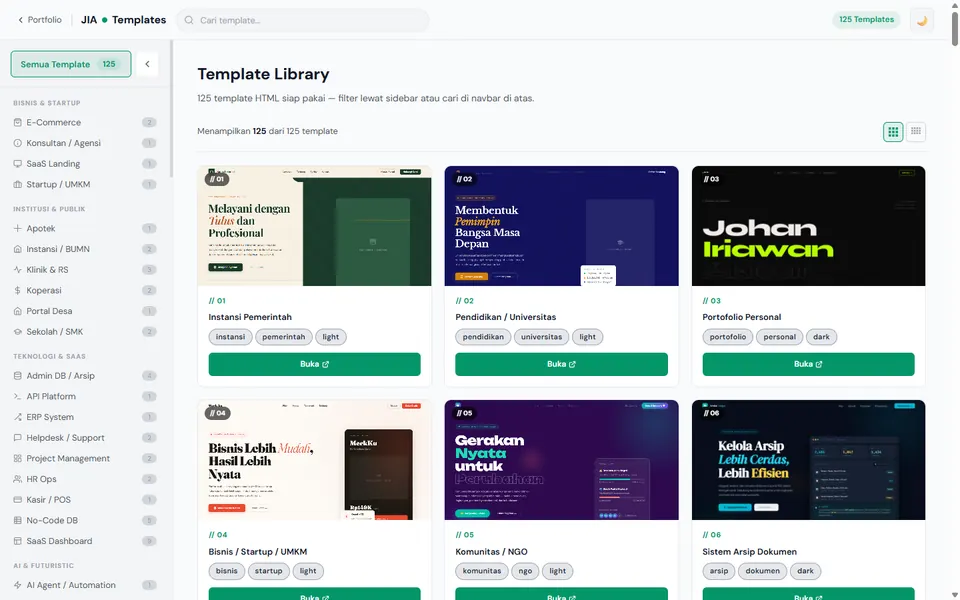
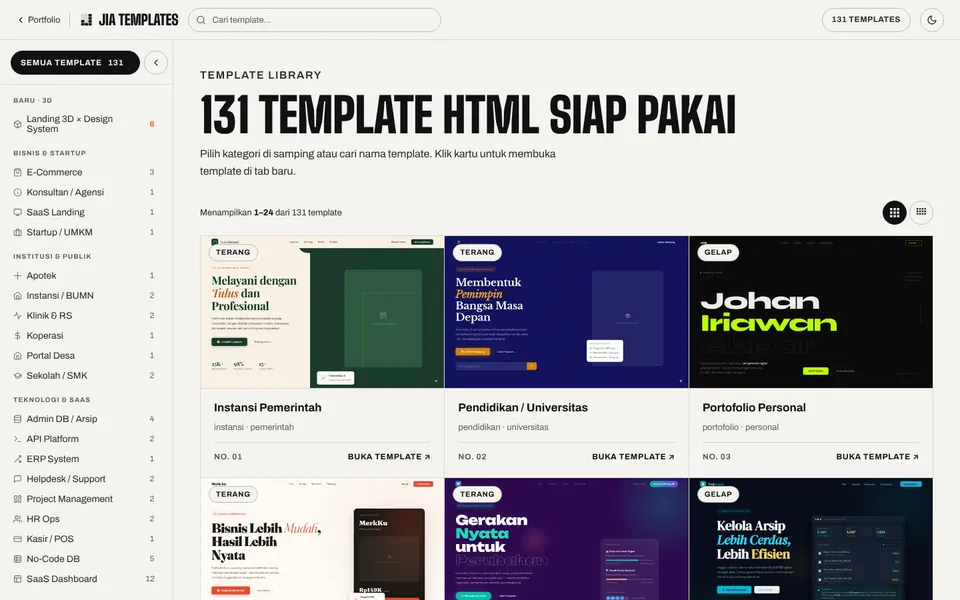
Finish 3D gallery: thumbnails for 126-131, refreshed Template Library image, work log and CDN source notes
Claude-Session: https://claude.ai/code/session_01EVHqnu5HDsnJgCMFLefxRH

diff --git a/gallery.html b/gallery.html
@@ -951,7 +951,7 @@ const templates = [
   {n:124, slug:"124-bridalku", title:"Wedding Vendor Marketplace — Sanding", cats:["weddingmarketplace"], path:"templates/124-bridalku/template-bridalku.html", tags:["wedding","vendor marketplace","pernikahan","light"]},
   {n:125, slug:"125-jelajah", title:"Hotel & Tiket Pesawat — Jelajah", cats:["travelaggregator"], path:"templates/125-jelajah/template-jelajah.html", tags:["travel","hotel","tiket pesawat","light"]},
   {n:126, slug:"126-orbita", title:"Smart Home 3D — Orbita · Material 3", cats:["3d","iot"], path:"templates/126-orbita/template-orbita.html", tags:["3d","three.js","material 3","smart home","light"]},
-  {n:127, slug:"127-sonara", title:"Produk Audio 3D — Sonara · Bootstrap 5", cats:["3d","ecommerce"], path:"templates/127-sonara/template-sonara.html", tags:["3d","three.js","bootstrap","produk","dark"]},
+  {n:127, slug:"127-sonara", title:"Produk Audio 3D — Sonara · Bootstrap 5", cats:["3d","ecommerce"], path:"templates/127-sonara/template-sonara.html", tags:["3d","three.js","bootstrap","produk","light"]},
   {n:128, slug:"128-lintas", title:"Logistik Globe 3D — Lintas · IBM Carbon", cats:["3d","logistik"], path:"templates/128-lintas/template-lintas.html", tags:["3d","three.js","carbon","logistik","dark"]},
   {n:129, slug:"129-nalar", title:"AI SaaS 3D — Nalar · Tailwind + shadcn", cats:["3d","aitech"], path:"templates/129-nalar/template-nalar.html", tags:["3d","three.js","tailwind","shadcn","ai","dark"]},
   {n:130, slug:"130-ruang", title:"Studio Arsitektur 3D — Ruang · Shoelace", cats:["3d","interiordesign"], path:"templates/130-ruang/template-ruang.html", tags:["3d","three.js","shoelace","arsitektur","light"]},

diff --git a/docs/jejak-permintaan.md b/docs/jejak-permintaan.md
@@ -27,3 +27,6 @@ Kolom baku (aturan `~/.claude/CLAUDE.md`): # · Tugas · Asal perintah · Halama
 | 21 | Antrean #19: sapuan tombol navbar seragam | "apalagi yaaa coba sweep tombol seragam tadi ada toggle dan sebelah nya yang tidak seragam perbaiki dan push" (9 Okt 2026) | landing + galeri | `index.html` `.btn-lang/.btn-theme/.btn-cta-nav/.nav-hamburger`, `#themeBtn` + `setThemeIcon()`; `gallery.html` blok RUPA JIA (`.nav-count`, `.nav-search input`, `.theme-toggle/.hamburger/.sidebar-collapse`, `.sidebar-all-btn`) | tinggi 34/38 (landing), 26/32/36 (galeri), 38/36 (sidebar); tema landing berteks DARK | ditemukan 10 · diubah 10 · sengaja tidak 4 (hero primary/secondary 52, submit 45, grid-btn sudah 36) | satu tinggi per bilah (§WEB-232) | selesai — Playwright laptop + HP: semua kendali navbar 36 px, ukur-bilah (termasuk nav) gagal 0 di kedua halaman, luber 0, tema berganti + aria-label benar; pemeriksa sonnet: 5 klaim benar | 2026-10-09 |
 | 22 | Antrean #23: pilot landing semua 50 komponen Polaris | "kerjakan #23 (pilot landing semua komponen Polaris)" (26 Okt 2026) | halaman baru | `design-systems/polaris/index.html` (baru); `docs/referensi_portoweb.md` bagian Polaris; `docs/bukti-23/` | tidak ada | landing "Warung Rapi" (merek rekaan) memakai `polaris-2.0.js` tanpa App Bridge; tabel cakupan dihitung skrip dari DOM | pilot design system pihak lain, kerangka untuk #22 | dikerjakan, belum dipush — chrome-devtools laptop 1536x960x1.25 dan telepon 412x915x2.625: cakupan `{"terpakai":50,"n":50,"tampilAwal":37}`, konsol kosong, `scrollWidth` 412 di telepon. Pemeriksa sonnet: 1 sanggahan diterima (panah karusel hanya geser 16px, diperbaiki → 332px), 1 sanggahan diterima sebagai kolom "Tampil awal" (13 komponen baru muncul saat dipicu atau tersembunyi di telepon) | 2026-10-26 |
 | 23 | Antrean #25: buang `design-systems/` dari cabang | "kerjakan #25 (buang design-systems/ dari cabang) lalu pindah ke cloud" (28 Okt 2026) | — (riwayat git) | cabang `claude/baca-hemat-ffa433` | 12 commit lokal, 014444c memuat `design-systems/polaris/index.html` (lisensi Polaris "tidak tahu") | riwayat ditulis ulang tanpa folder itu; isi docs tetap | landing design system tinggal di AI Skill (lokal), cabang akan diunggah ke GitHub saat pindah ke cloud | selesai — `git log --all --oneline -- design-systems` = kosong; `git branch -a --contains 014444c` = kosong; `refs/original` dihapus | 2026-10-28 |
+| 24 | Antrean #28: re-imagine landing portofolio | "re-imagine landing portofolio kita, jadikan yang paling bagus … kmu pilih sesuai rekomendasimu kemudian kerjakan dan push" + "sebagai referensi bangun website 3D" (27 Okt 2026); "lanjutkan yang tadi sampai selesai lalu push" (28 Okt 2026) | landing | `index.html` (ditulis ulang) | hero teks + kode tiruan, kartu layanan, grid proyek 3×2, form yang hanya menulis "Terkirim!" | "studio isometrik": kertas `#f4f3ef`, tinta, aksen oranye `#ff5b1f`; hero three.js 0.170 (logo J dari balok, ikut kursor); Proses = cerita gulir 3D (tokoh berjalan antar 4 meja, garis oranye); Karya grid 7/5; Layanan 5 baris; Lab (Template Library + Galeri 3D); Tentang + tumpukan teknologi; form → pesan WhatsApp; 131 template, 6 landing 3D | rekomendasi sendiri atas permintaan Johan; gaya garis oranye isometrik dari replika 3D SAKTI kiriman Johan | selesai — Playwright 1440×900 dan 390×844, terang dan gelap: luber 0, galat konsol 0; tanpa WebGL tampil logo SVG | 2026-10-28 |
+| 25 | Antrean #29 (+ menutup #20): galeri cepat & rapi | "perbaiki semua gallery yang sudah ada rapikan, termasuk font nya … supaya gallery tidak lemot … pagination dll" (27 Okt 2026) | galeri + 48 template | `gallery.html` (render, pagination, sidebar, token warna); `thumbnails/*.webp`; `tools/rapikan_fon.py`, `tools/rapikan_hp.py`, `tools/audit_template.js`, `tools/buat_thumbnail.py`; `sw.js` (`jia-v3`) | 118 PNG 1440×900 ±27 MB dimuat sekaligus, 7 template tanpa thumbnail; 48 template berfon mono (nol bertitik); 24 template luber di HP 390 px; hitungan kategori ditulis tangan | 131 WebP 640×400 (±1,6 MB); 24 kartu per halaman, status `?cat=&q=&page=`; hitungan dari data; Space Grotesk menggantikan fon mono; tambalan HP di 27 template (CTA navbar, tabel, grid); `viewBox` 01-instansi dibetulkan | galeri lemot karena gambar; aturan global §Fon Angka | selesai — buka galeri: 24 thumbnail ±11 KB (laptop), galat 0; audit semua template: mono 0, galat 0, konten terpotong di 390 px 0 (sisa hanya laci menu tersembunyi di luar layar, memang dirancang begitu) | 2026-10-28 |
+| 26 | Antrean #30: galeri landing 3D × design system | "berikan lagi gallery seperti threeD.js atau website 3D berjalan landing dengan design system yang sering di pakai, coba kerjakan dan push" (27 Okt 2026) | 6 template baru + kategori galeri `?cat=3d` | `templates/126-orbita` (Material 3), `127-sonara` (Bootstrap 5.3), `128-lintas` (IBM Carbon), `129-nalar` (Tailwind v4 + pola shadcn/ui), `130-ruang` (Shoelace), `131-rapatin` (Fluent UI web components) | tidak ada | tiap landing: adegan three.js yang dikendalikan komponen design system + cerita gulir isometrik; terang/gelap; reduced-motion; cadangan tanpa WebGL | hanya sistem berlisensi terbuka (Apache-2.0/MIT), CDN berversi kunci | selesai — 6/6 di 1440 dan 390: luber 0, mono 0, galat 0; kontrol mengubah adegan (beda piksel rata-rata: Orbita saklar 20,5, Sonara warna 23,5, Lintas baris tabel 32.228 piksel berubah, Nalar tab Hitung, Ruang `sl-range` 84,0, Rapatin `fluent-switch` 54,5) | 2026-10-28 |

diff --git a/docs/referensi_portoweb.md b/docs/referensi_portoweb.md
@@ -52,11 +52,31 @@ Tidak berlaku untuk proyek ini — tidak ada halaman yang membaca berkas data (`
 | `app-bridge.js` + meta `shopify-api-key` | ❌ | tidak dibutuhkan untuk menggambar di halaman lepas (uji 26 Okt 2026) | sesi ini, dengan bukti uji; bisa dibalik Johan |
 | Paket React lama `Shopify/polaris` (MIT, diarsipkan) | ❌ | cadangan, tidak dibutuhkan karena web components jalan | sesi ini |
 
+## Pustaka CDN landing & galeri 3D — antrean #28 dan #30 (27–28 Okt 2026)
+
+Semua dimuat live dari CDN dengan versi dikunci; tidak ada kode pustaka yang disalin ke repo. Dicek `curl` = 200 saat dibangun.
+
+| Pustaka | Versi | Lisensi | URL | Dipakai di |
+|---|---|---|---|---|
+| three.js (+ addons `examples/jsm`) | 0.170.0 | MIT | `https://cdn.jsdelivr.net/npm/three@0.170.0/` | `index.html`, template 126–131 |
+| Material Web (`@material/web`) | 2.2.0 | Apache-2.0 | `https://cdn.jsdelivr.net/npm/@material/web@2.2.0/all.js/+esm` | 126-orbita |
+| Bootstrap | 5.3.3 | MIT | `https://cdn.jsdelivr.net/npm/bootstrap@5.3.3/dist/` | 127-sonara |
+| IBM Carbon web components | 2.60.0 | Apache-2.0 | `https://1.www.s81c.com/common/carbon/web-components/version/v2.60.0/` (token tema white/g100 disalin ke halaman karena berkas tema IBM hanya ada di jalur `latest`) | 128-lintas |
+| Tailwind CSS browser | 4.1.13 | MIT | `https://cdn.jsdelivr.net/npm/@tailwindcss/browser@4.1.13` (token gaya shadcn/ui ditulis sendiri) | 129-nalar |
+| Shoelace | 2.20.1 | MIT | `https://cdn.jsdelivr.net/npm/@shoelace-style/shoelace@2.20.1/cdn/` | 130-ruang |
+| Fluent UI web components | 3.1.3 (+ `@fluentui/tokens` 1.0.0-alpha.24) | MIT | `https://cdn.jsdelivr.net/npm/@fluentui/web-components@3.1.3/dist/web-components-all.min.js` | 131-rapatin |
+| GSAP + ScrollTrigger | 3.12.5 | lisensi standar GreenSock (gratis untuk situs) | `https://cdn.jsdelivr.net/npm/gsap@3.12.5/dist/` | 130-ruang, 131-rapatin |
+| Google Fonts tambahan | — | OFL | Space Grotesk (pengganti fon mono di 48 template), Roboto, Manrope, IBM Plex Sans, Geist, dan fon isi landing 3D | template |
+
+Fon angka: semua fon di atas bernol polos; Space Grotesk diuji raster 27 Okt 2026 (piksel gelap di tengah nol = 0, JetBrains Mono sebagai kontrol = 504).
+
 ## Keputusan "tidak diambil" / ganti sumber / jahit
 
 Tidak berlaku — belum pernah ada penggantian sumber, jahitan data, atau ruas yang sengaja dilewatkan di proyek ini. Proyek murni template statis, tidak ada angka/data sensitif yang berasal dari sumber luar.
 
 ## Riwayat
+
+- 2026-10-28 — tambah pustaka CDN landing baru (#28) dan 6 landing 3D × design system (#30); fon mono template diganti Space Grotesk (#29).
 
 - 2026-10-28 — landing Polaris keluar dari repo, pindah ke AI Skill (#25).
 - 2026-10-26 — tambah sumber Polaris web components (pilot #23); lisensi belum diputuskan Johan.
